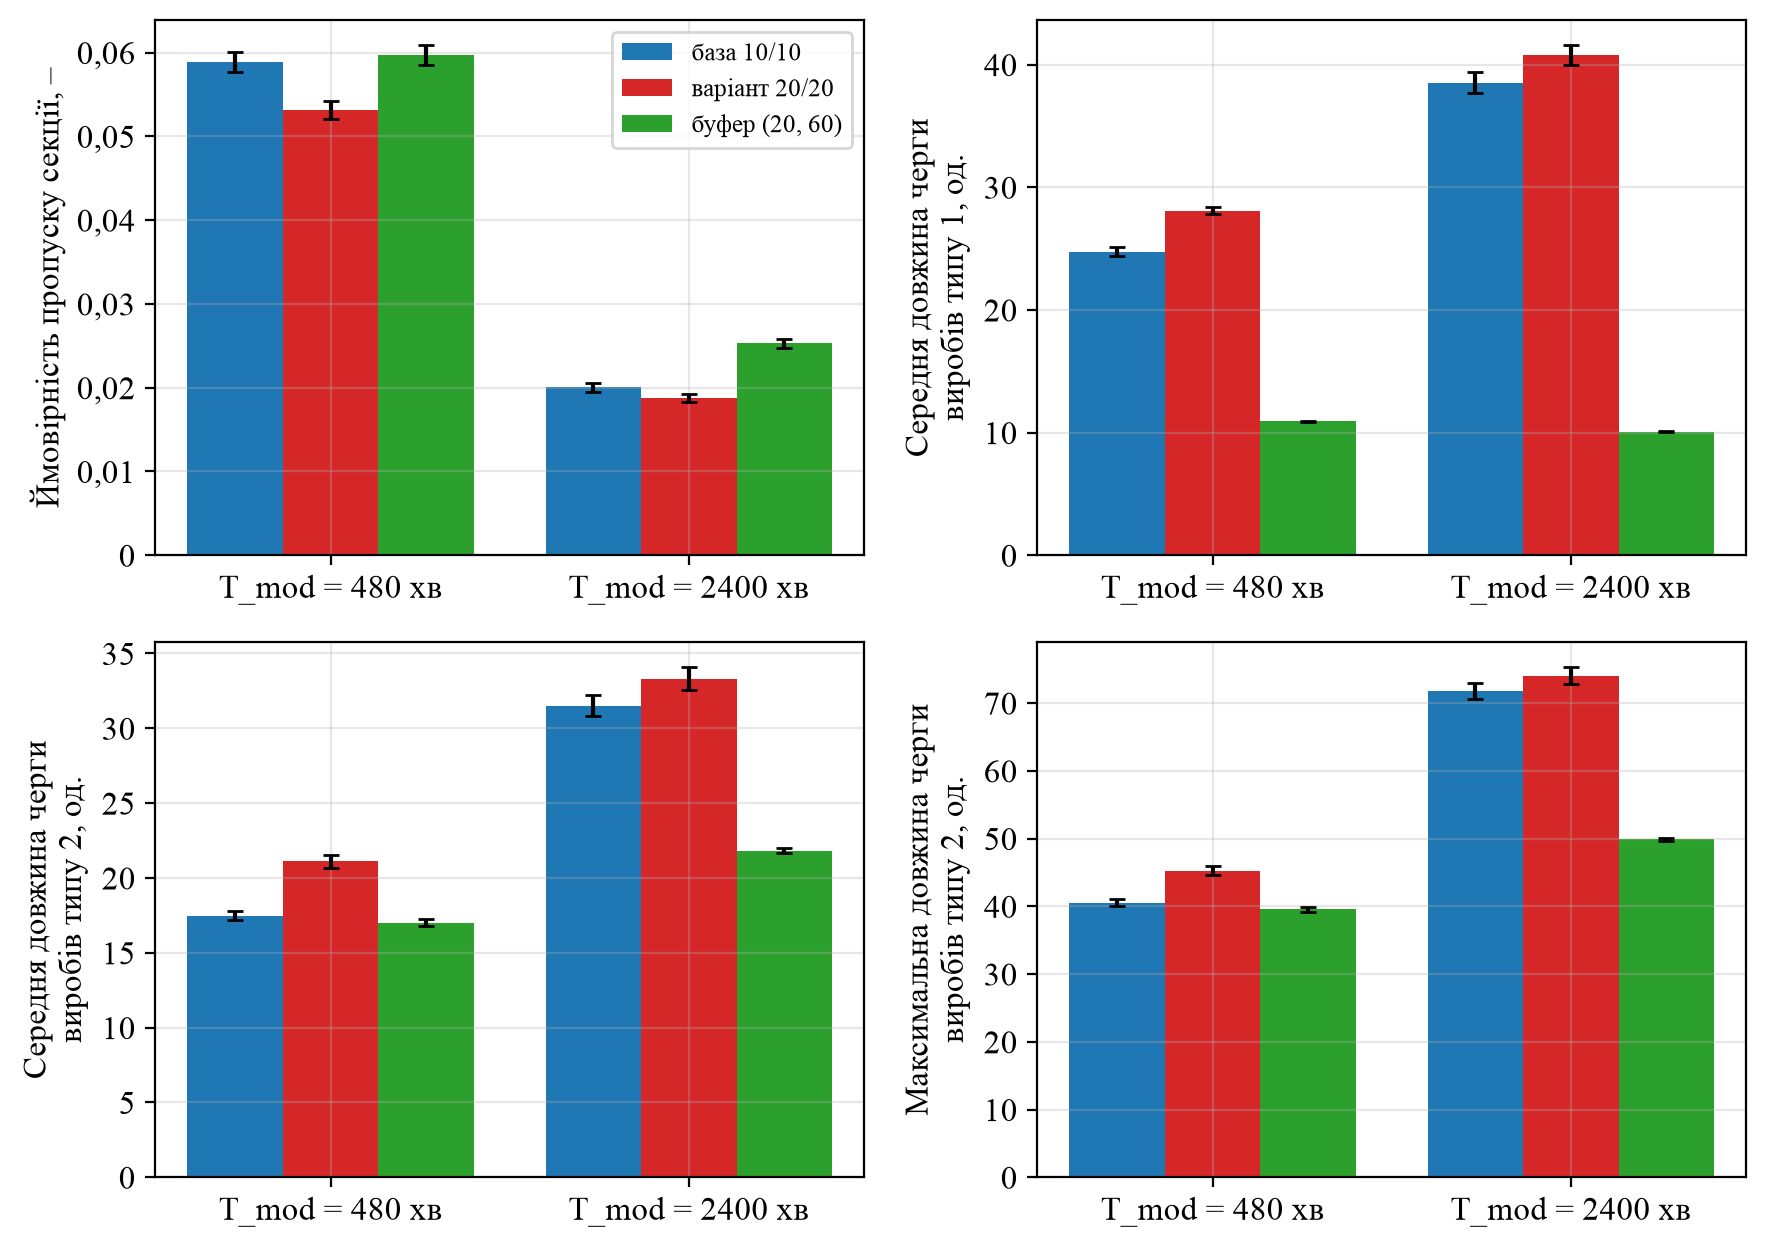
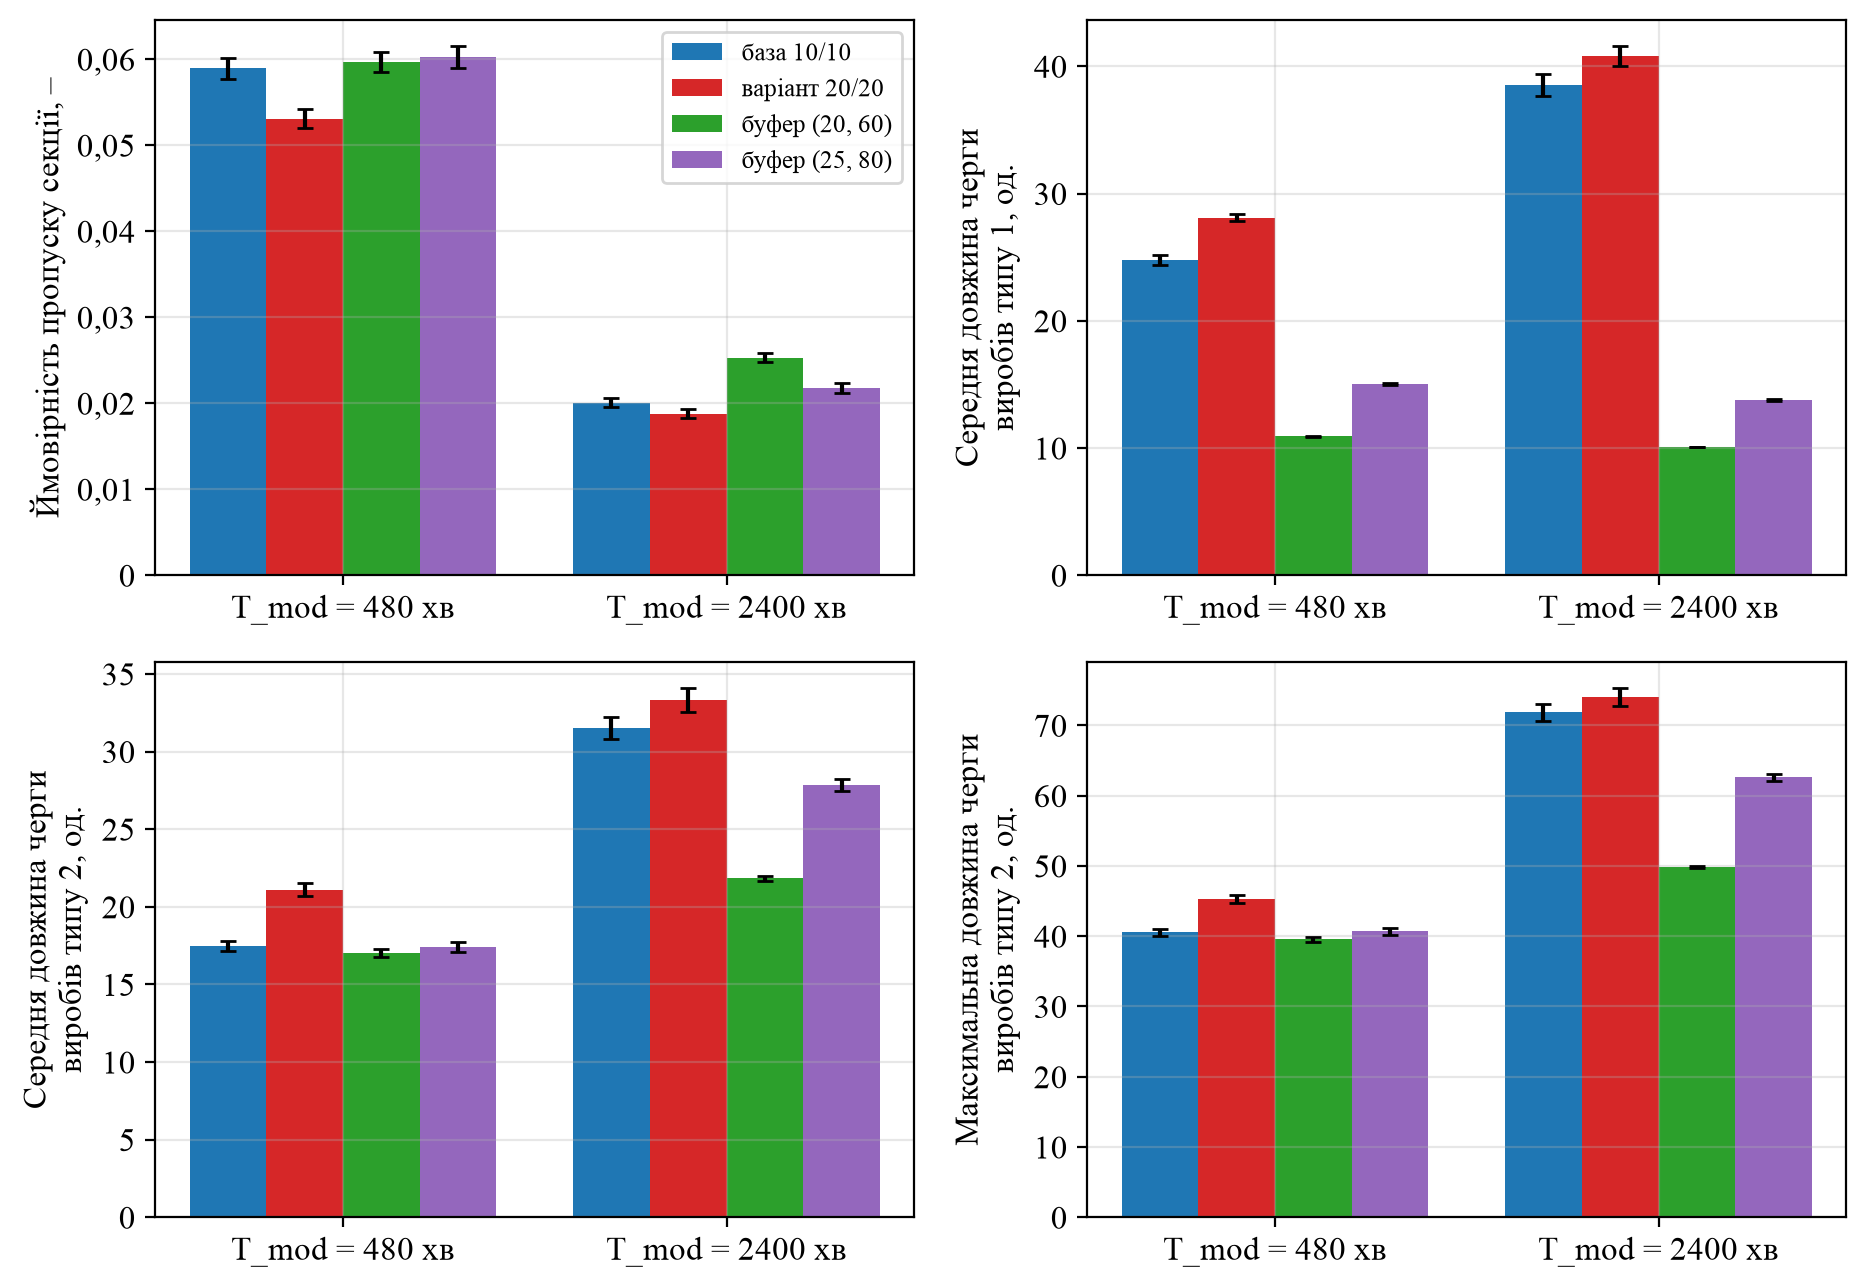
Compare two buffer variants with the base model

diff --git a/src/experiments/compare.py b/src/experiments/compare.py
@@ -1,12 +1,15 @@
 """Proposal (kanban buffer) compared with the base scheme and variant 20/20.
 
-python -m src.experiments.compare [--T 480 2400] [--runs 1600] [--buffer 20 60]
+python -m src.experiments.compare [--T 480 2400] [--runs 1600] [--buffers 20 60 25 80]
 
 1) Same conditions: empty queues at t = 0, horizon T, the same seeds 1..p for
    every model (common random numbers); differences to the base model are
    paired (run s of a model minus run s of the base), CI by Student.
-2) Steady state: base model and the buffer model, T = 40000 min, warm-up 3000,
-   120 runs - the buffer keeps the queues bounded, the base model does not.
+2) Steady state: base model and the buffer models, T = 40000 min, warm-up 3000,
+   120 runs - the buffers keep the queues bounded, the base model does not.
+
+Two proposal variants: (20, 60) - minimal buffer with P_skip <= 0.02,
+(25, 80) - smaller loss of completeness (P_skip about 0.01).
 
 Cost of the buffer: block_i (share of time the supplier waits) and the lost
 production 60 * lambda_i * block_i items/h of each type (lambda_i = 1 item/min).
@@ -28,9 +31,9 @@ KEYS = ["p_skip", "q1_mean", "q2_mean", "q1_max", "q2_max", "items_per_hour",
 STEADY_T, STEADY_WARM, STEADY_RUNS = 40000, 3000, 120
 
 
-def models(buffer):
-    return [("база 10/10", dict()), ("варіант 20/20", dict(k=20, period=20.0)),
-            (f"буфер ({buffer[0]}, {buffer[1]})", dict(buffer=tuple(buffer)))]
+def models(buffers):
+    return ([("база 10/10", dict()), ("варіант 20/20", dict(k=20, period=20.0))]
+            + [(f"буфер ({b[0]}, {b[1]})", dict(buffer=tuple(b))) for b in buffers])
 
 
 def with_lost(res):
@@ -46,8 +49,8 @@ def paired_ci(a, b, beta=0.95):
     return float(d.mean()), float(h)
 
 
-def compare(T, runs, buffer, warmup=0.0, model_list=None):
-    model_list = model_list or models(buffer)
+def compare(T, runs, buffers, warmup=0.0, model_list=None):
+    model_list = model_list or models(buffers)
     data = {name: with_lost(replicate_parallel(runs, T, seed=1, warmup=warmup, **kw))
             for name, kw in model_list}
     base = model_list[0][0]
@@ -76,7 +79,7 @@ def plot_compare(rows, path):
               ("q1_mean", "Середня довжина черги\nвиробів типу 1, од."),
               ("q2_mean", "Середня довжина черги\nвиробів типу 2, од."),
               ("q2_max", "Максимальна довжина черги\nвиробів типу 2, од.")]
-    fig, axes = plt.subplots(2, 2, figsize=(9, 6.4))
+    fig, axes = plt.subplots(2, 2, figsize=(9.5, 6.6))
     width = 0.8 / len(names)
     for ax, (key, label) in zip(axes.flat, panels):
         for i, n in enumerate(names):
@@ -119,20 +122,22 @@ def main():
     ap = argparse.ArgumentParser()
     ap.add_argument("--T", type=float, nargs="+", default=[480.0, 2400.0])
     ap.add_argument("--runs", type=int, default=1600)
-    ap.add_argument("--buffer", type=int, nargs=2, default=[20, 60])
+    ap.add_argument("--buffers", type=int, nargs="+", default=[20, 60, 25, 80],
+                    help="pairs L1 L2")
     a = ap.parse_args()
+    buffers = [tuple(a.buffers[i:i + 2]) for i in range(0, len(a.buffers), 2)]
     RESULTS.mkdir(exist_ok=True)
 
     rows = []
     for T in a.T:
-        rows += compare(T, a.runs, a.buffer)
+        rows += compare(T, a.runs, buffers)
     write_csv(RESULTS / "compare_terminating.csv", rows)
     plot_compare(rows, RESULTS / "compare_terminating.png")
     print("Порожній старт, однакові seed:")
     show(rows)
 
-    ml = [models(a.buffer)[0], models(a.buffer)[2]]
-    steady = compare(STEADY_T, STEADY_RUNS, a.buffer, warmup=STEADY_WARM, model_list=ml)
+    ml = [m for m in models(buffers) if "20/20" not in m[0]]
+    steady = compare(STEADY_T, STEADY_RUNS, buffers, warmup=STEADY_WARM, model_list=ml)
     write_csv(RESULTS / "compare_steady.csv", steady)
     print(f"\nСталий режим: T = {STEADY_T} хв, прогрів {STEADY_WARM} хв, {STEADY_RUNS} прогонів")
     show(steady)
